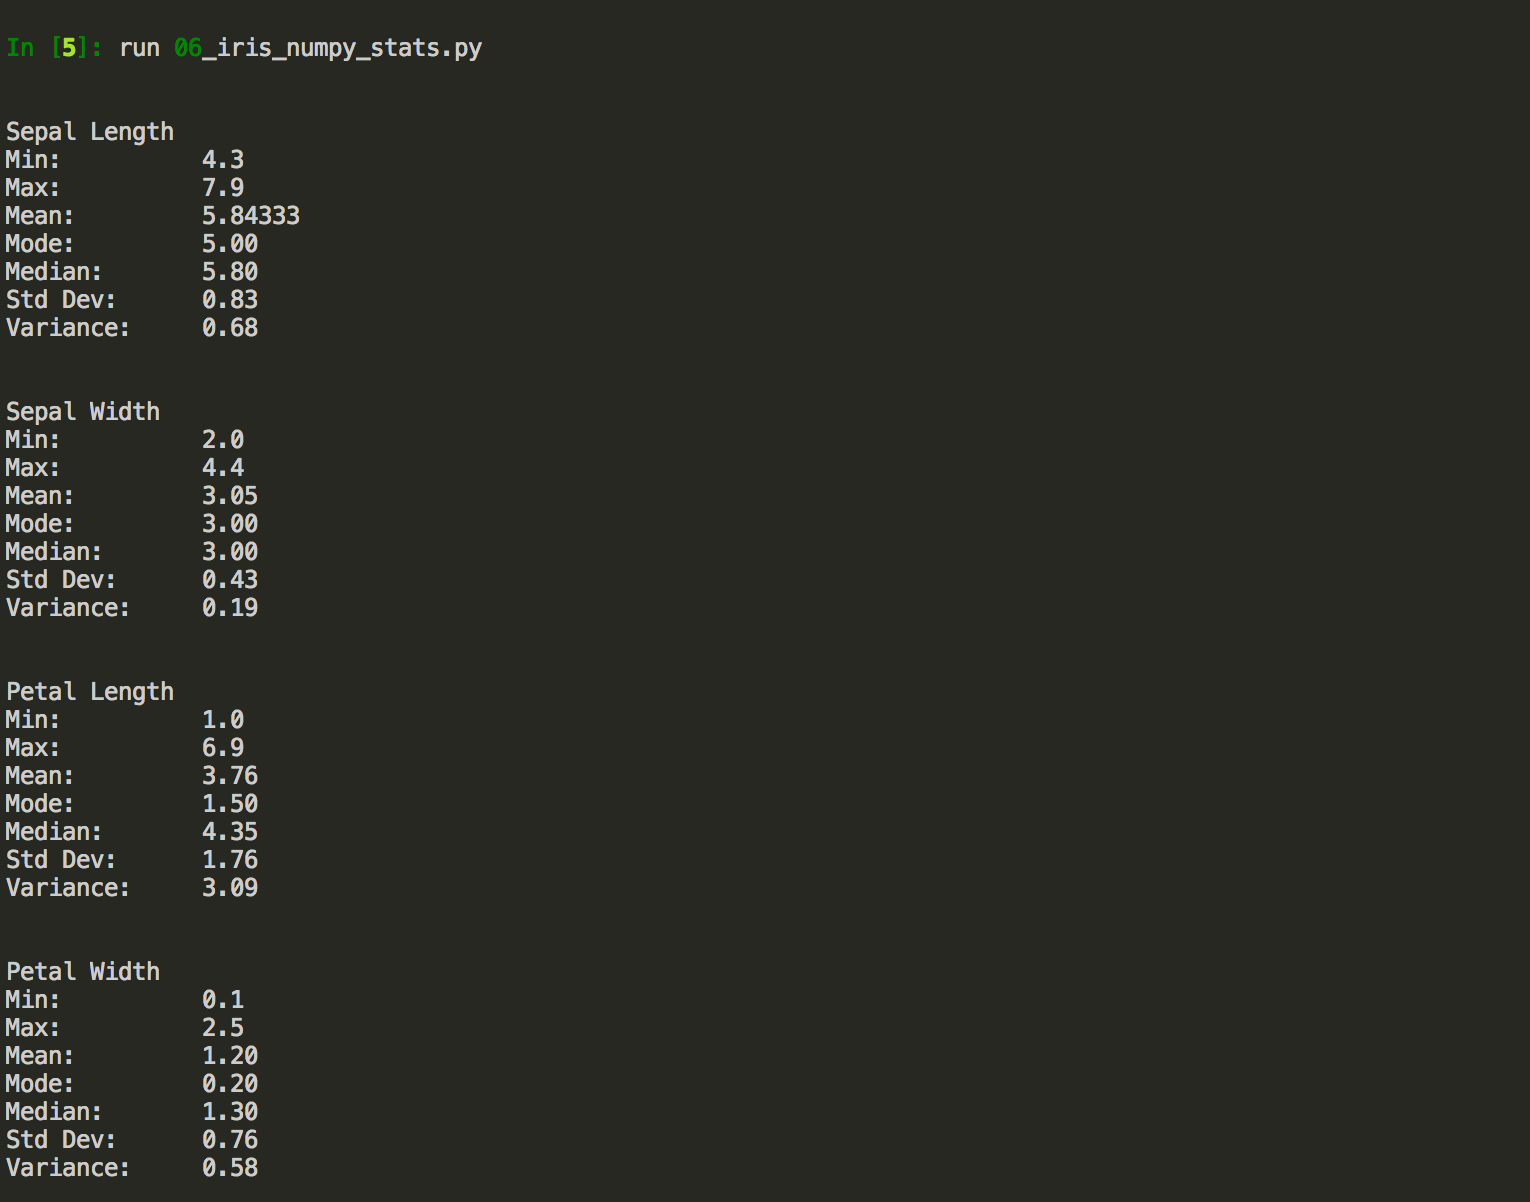
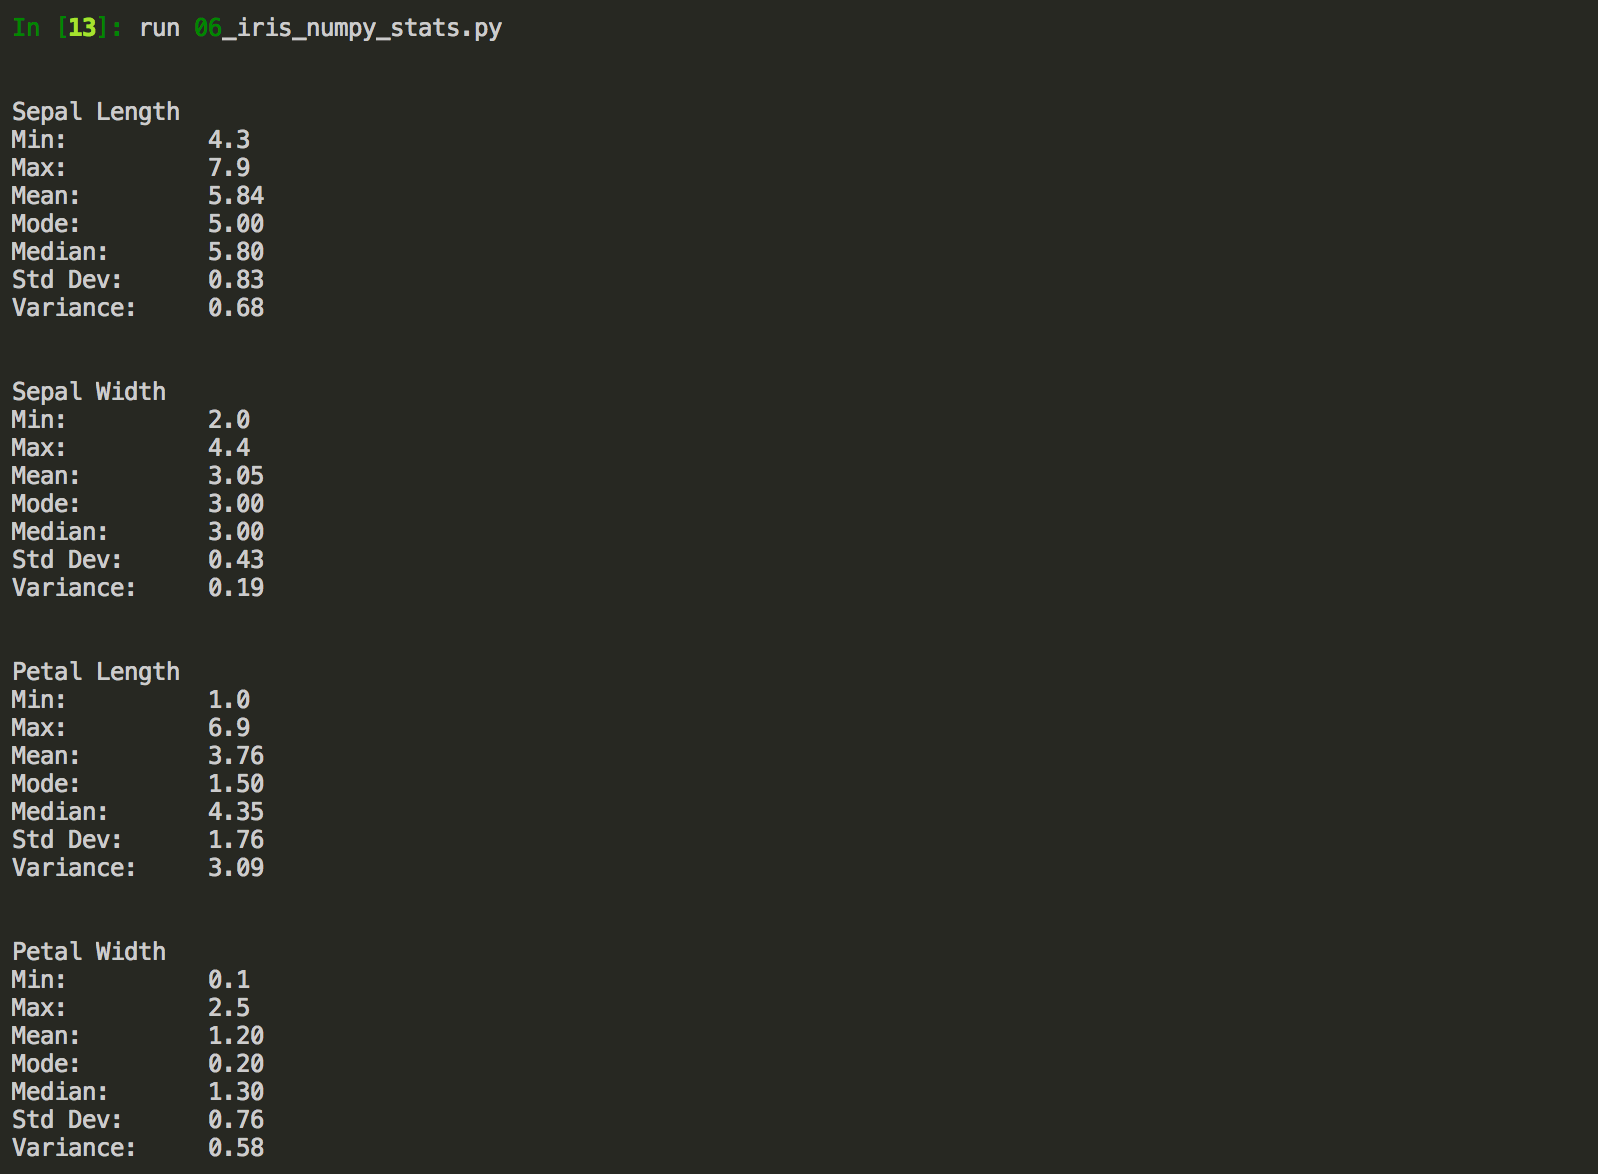
06 dp amended and screenshot updated

diff --git a/06_iris_numpy_stats.py b/06_iris_numpy_stats.py
@@ -15,7 +15,7 @@ petw = data[:,3]
 print('\n\nSepal Length')
 print('Min:          {0:.1f}'.format(np.min(sepl)))
 print('Max:          {0:.1f}'.format(np.max(sepl)))
-print('Mean:         {0:.5f}'.format(np.mean(sepl)))
+print('Mean:         {0:.2f}'.format(np.mean(sepl)))
 print('Mode:         {0:.2f}'.format(stats.mode(sepl)))
 print('Median:       {0:.2f}'.format(stats.median(sepl)))
 print('Std Dev:      {0:.2f}'.format(stats.pstdev(sepl)))
